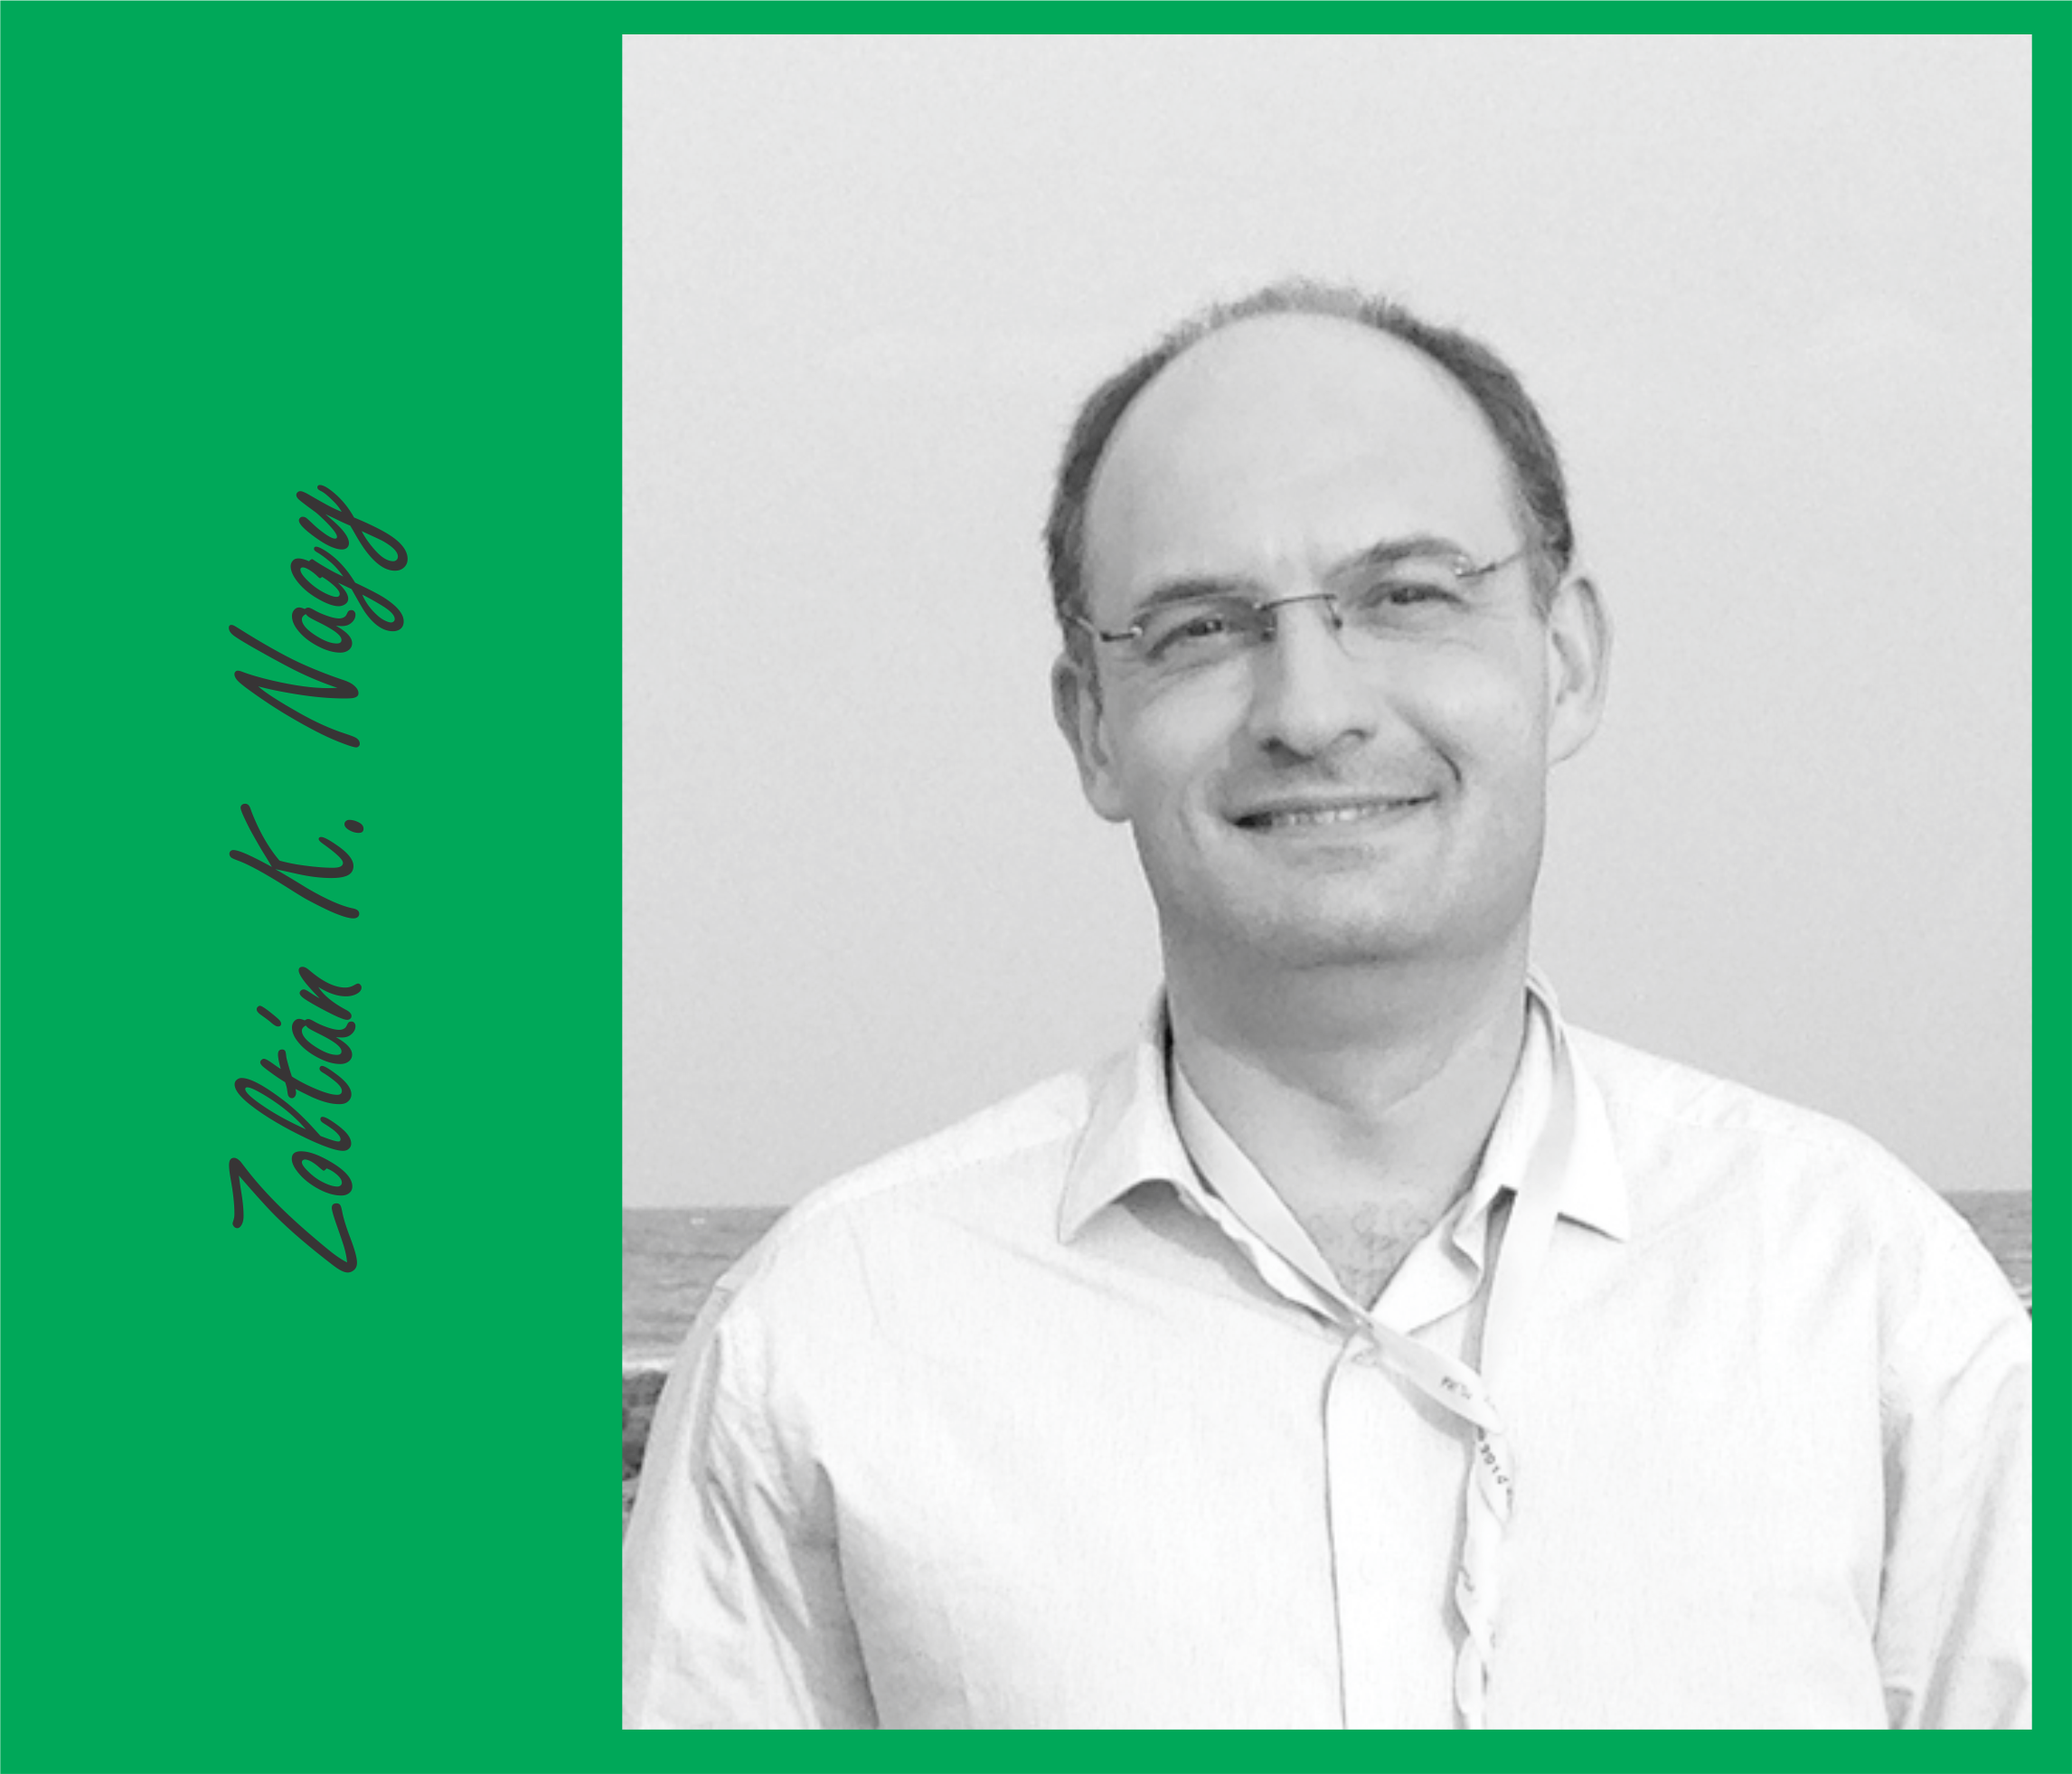
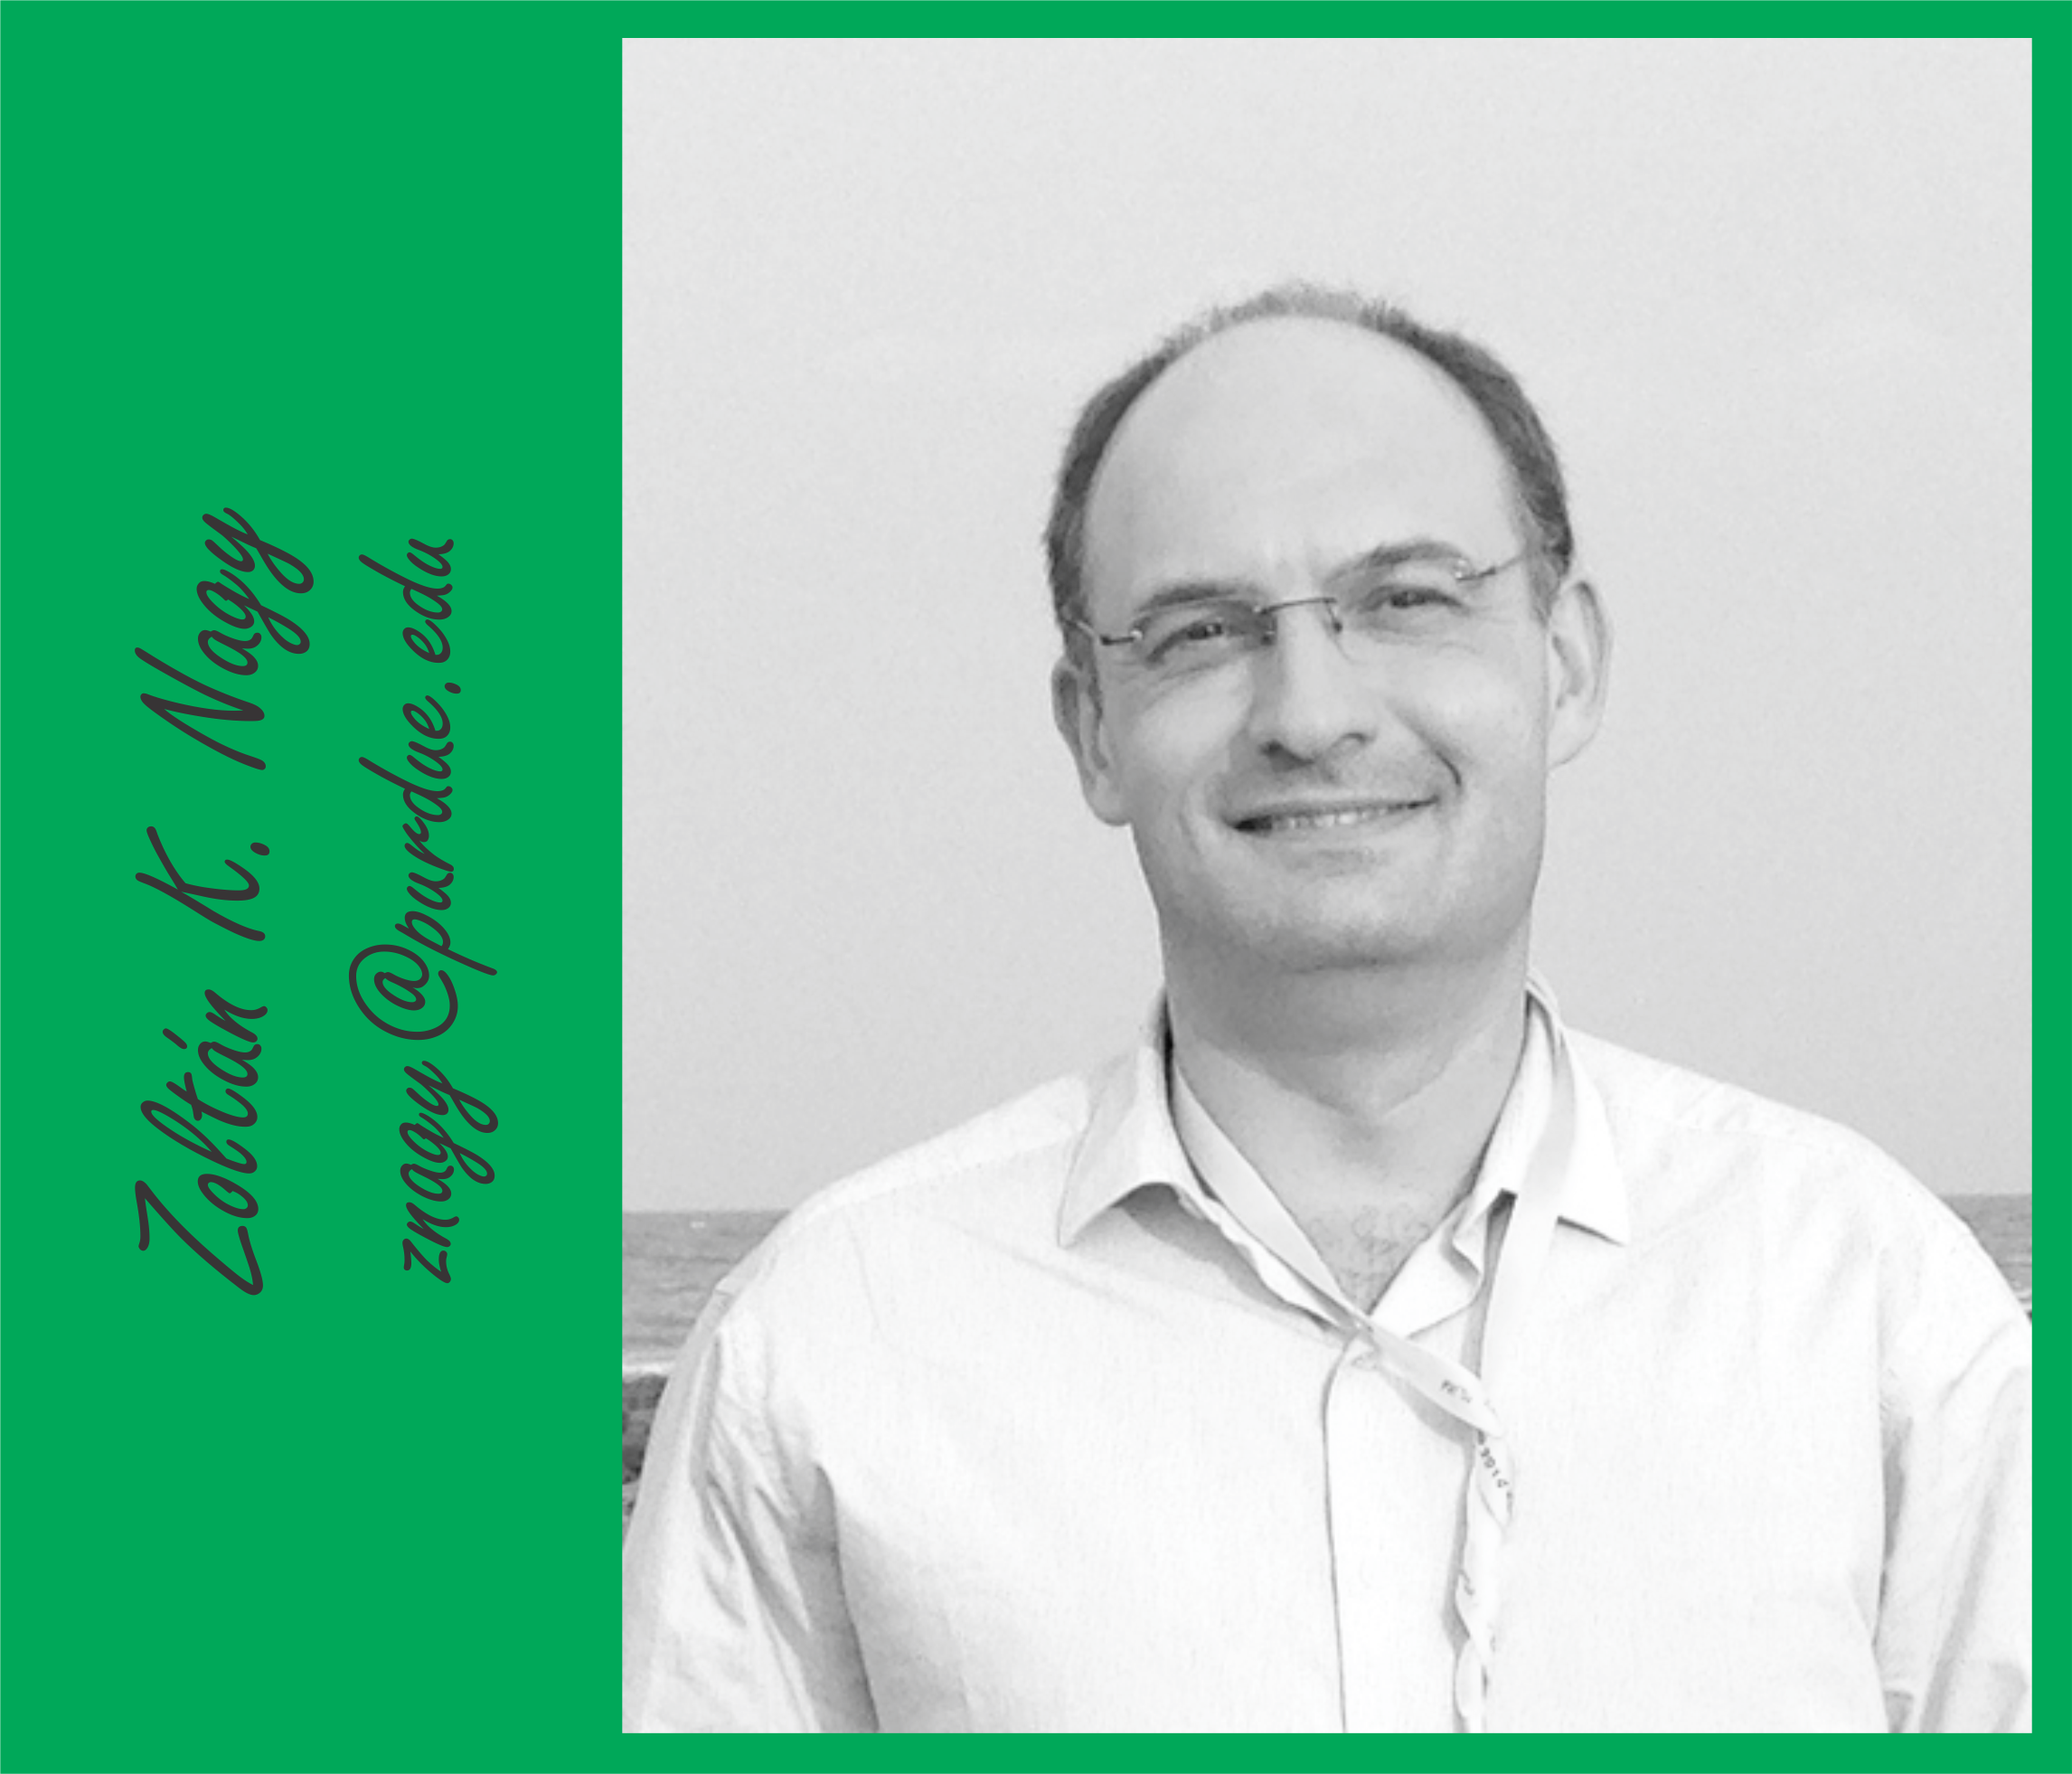
Corrected emails

diff --git a/index.html b/index.html
@@ -287,7 +287,7 @@
                     <div class="modal-body">
                         <h2>CrySiV, a MatLab function</h2>
                         <hr class="star-primary">
-                        <p>The CrySiV, acronym of Crystallization Simulation and Visualization Tool, is a MatLab based function for simulation of cooling crystallization processes.  The CrySiV contains primary and secondary nucleation, growth and dissolution as crystallization mechanisms and enables the simulation of crystallization of 1D and 2D crystals. The CrySiV applies high resolution finite volume method for PBE solution, implemented in the form of compiled C++ programs. CrySiV enables optional GPU acceleration on nVidia CUDA capable units. The function has similar calling syntax to the MatLab&rsquo;s inner functions and during the development high accent was put on the efficient implementation; both for the sake of serving the needs of process engineers.</p>
+                        <p>The CrySiV, acronym of Crystallization Simulation and Visualization Tool, is a MatLab based function for simulation of cooling crystallization processes.  The CrySiV contains primary and secondary nucleation, growth and dissolution as crystallization mechanisms and enables the simulation of crystallization of 1D and 2D crystals. The CrySiV applies high resolution finite volume method for PBE solution, implemented in the form of compiled C programs. CrySiV enables optional GPU acceleration on nVidia CUDA capable units. The function has similar calling syntax to the MatLab&rsquo;s inner functions and during the development high accent was put on the efficient implementation; both for the sake of serving the needs of process engineers.</p>
                         <ul class="list-inline item-details">
                             <li>Name:
                                 <strong>CrySiV Function</strong>
